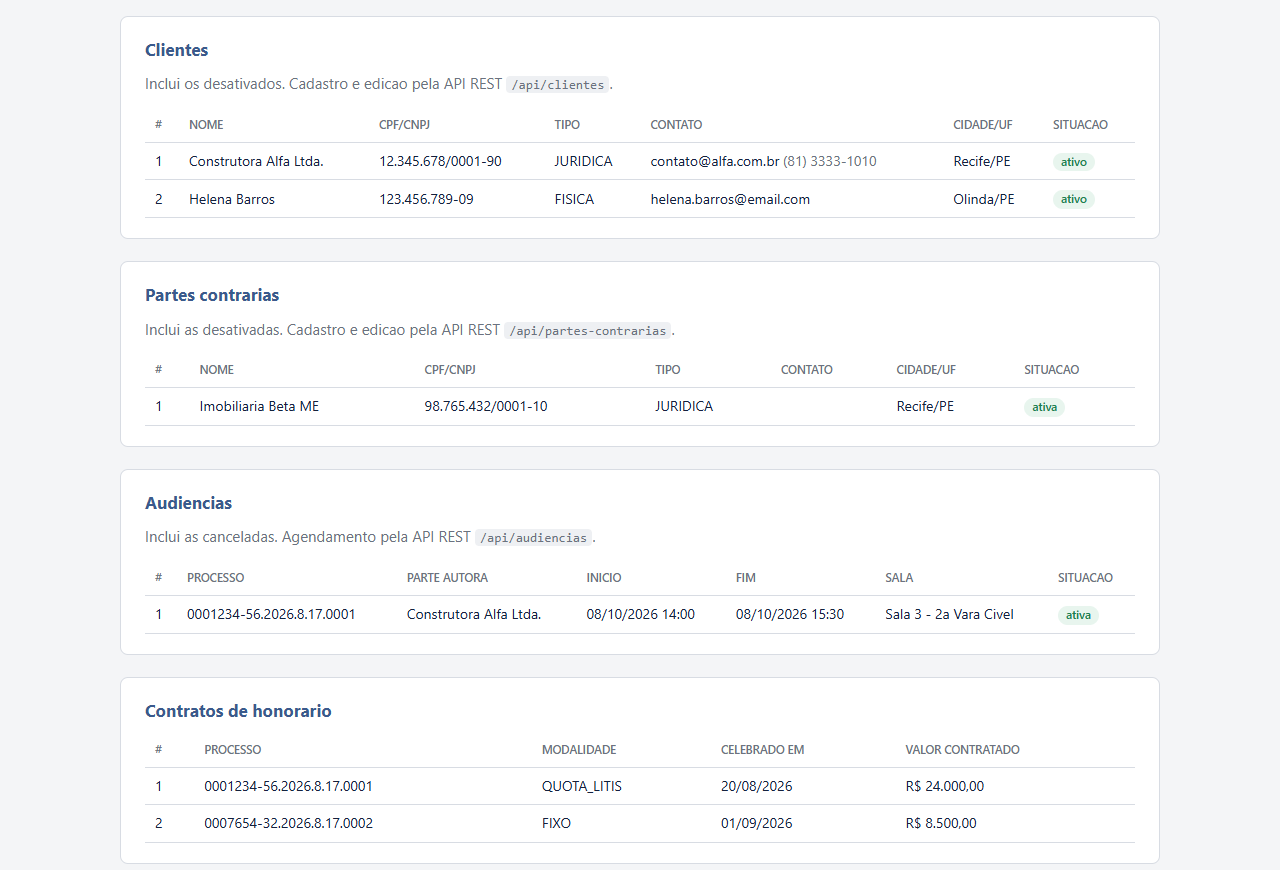
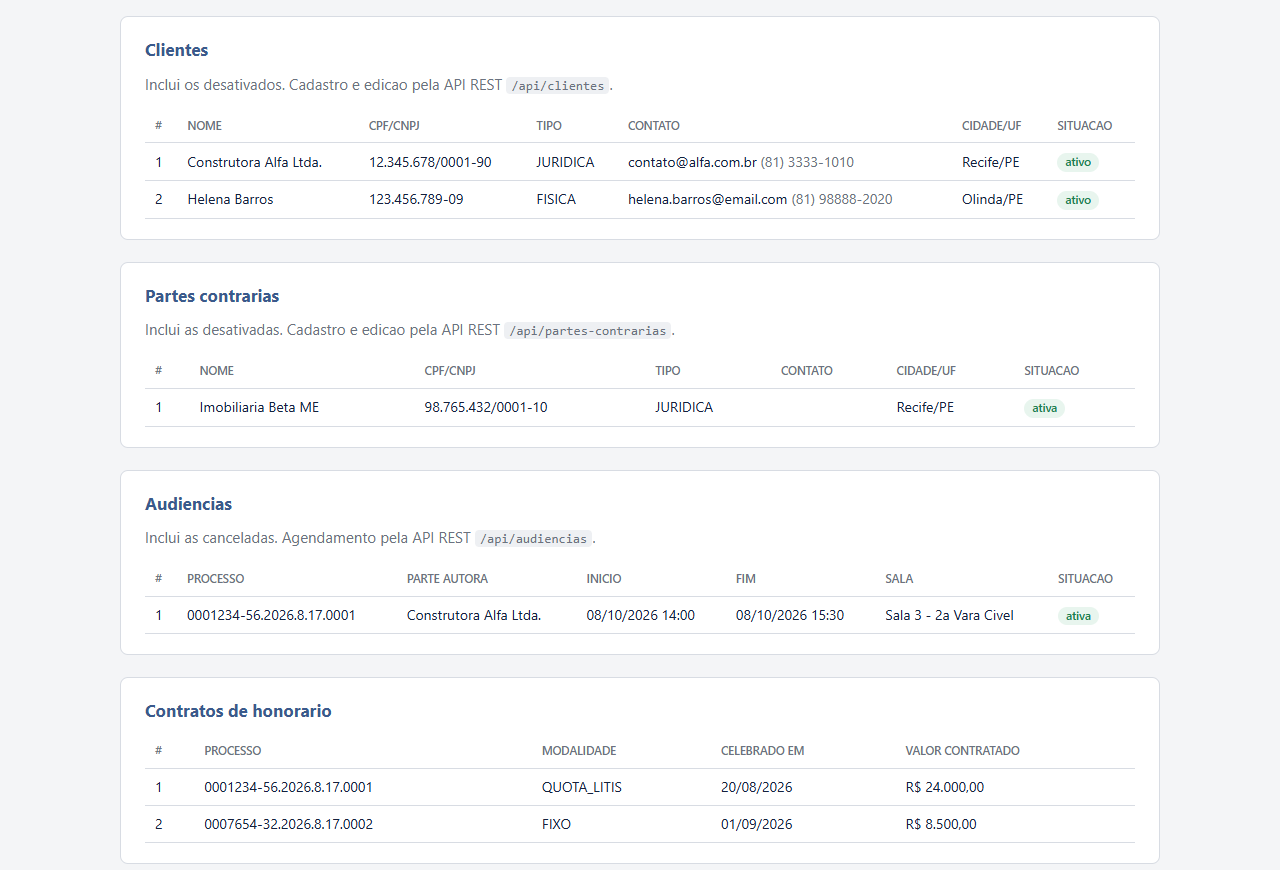
docs: recapturar as telas e registrar as decisoes de front no README
As capturas mostram o painel com o entorno do escritorio ja cadastrado
(clientes, audiencia, contratos, anexo) e o prazo cumprido na
administracao.

O README ganha a secao "O front: sem framework, mas com o basico
inegociavel", com o que foi feito de acessibilidade, tema escuro,
impressao e cache, e atualiza a contagem de testes para 171.

diff --git a/README.md b/README.md
@@ -30,13 +30,13 @@ Em volta disso ficam os apoios que o dia a dia exige: cadastro de processos com 
 Dois comandos, sem instalar banco nem configurar nada:
 
 ```bash
-./mvnw test            # 168 testes: unidade + contrato HTTP + 53 cenários BDD (481 steps)
+./mvnw test            # 171 testes: unidade + contrato HTTP + 53 cenários BDD (481 steps)
 ./mvnw spring-boot:run # sobe em http://localhost:8080
 ```
 
 Abra <http://localhost:8080/painel>. Ele pede login, porque todo o painel é autenticado.
 
-A aplicação já sobe com um escritório de mentira montado: dois processos (um deles em segredo de justiça), três prazos em estados diferentes, dois modelos de peça e o calendário de feriados nacionais. É o suficiente para percorrer o sistema inteiro sem cadastrar nada.
+A aplicação já sobe com um escritório de mentira montado: dois processos (um deles em segredo de justiça), quatro prazos em estados diferentes (inclusive um vencido e um já cumprido), uma peça esperando revisão, dois clientes, uma parte contrária, uma audiência marcada, dois contratos de honorário, um anexo nos autos, dois modelos de peça e o calendário de feriados nacionais. É o suficiente para percorrer o sistema inteiro sem cadastrar nada.
 
 **Com quem entrar:**
 
@@ -350,6 +350,21 @@ Os 6 padrões da lista do enunciado, mais Composite e Interpreter. Cada um entro
 | **Proxy** | `ProxyDeAcesso` sobre `ConteudoRestrito`, especializado em `DocumentoProxy` e `ArquivoProxy` | Segredo de justiça conferido antes de o conteúdo sair da persistência; impossível esquecer a checagem, porque o caso de uso só tem acesso ao Proxy. A regra do art. 189 é escrita uma vez e vale para peça gerada e arquivo anexado |
 | **Iterator** | `Processo implements Iterable<Andamento>` | Linha do tempo em ordem cronológica sem expor a coleção interna |
 
+### O front: sem framework, mas com o básico inegociável
+
+Uma folha de estilo (`/css/praxis.css`), um arquivo de comportamento (`/js/praxis.js`) e Thymeleaf. Não há build de front, e as decisões abaixo existem para que isso não custe acessibilidade nem desempenho.
+
+- **Atalho de teclado** em toda tela: o primeiro `Tab` revela "Ir para o conteudo" e pula o menu inteiro (WCAG 2.4.1). O link do menu correspondente à tela atual leva `aria-current="page"`, então o leitor de tela anuncia onde você está — antes era só uma cor diferente.
+- **Tema claro e escuro** pela preferência do sistema (`prefers-color-scheme`). Toda cor virou token em `:root`; o tema escuro redefine os tokens e quase nenhuma regra precisa saber que ele existe.
+- **Movimento é preferência do usuário**: com `prefers-reduced-motion`, a rolagem suave e as transições são desligadas (WCAG 2.3.3).
+- **Folha de impressão**: peça, ficha e agenda vão ao papel sem menu, sem formulário e sem botão; o cabeçalho da tabela repete a cada página e links externos imprimem o endereço. Peça aprovada é levada impressa para a audiência — essa é a tela que mais vai para a impressora.
+- **Cabeçalho fixo** com `scroll-margin-top` nos alvos de âncora, para o foco nunca ficar escondido atrás dele (WCAG 2.4.11); em tela estreita o cabeçalho volta a rolar, porque ali o menu ocupa três linhas. Nas tabelas longas da administração, o cabeçalho de coluna acompanha a rolagem.
+- **Alvo de toque** de no mínimo 24 px nos botões de tabela (WCAG 2.5.8), e caixas de seleção maiores.
+- **Feedback de envio**: ao submeter, o botão vira "Enviando..." com `aria-busy` e trava contra duplo clique; voltar pelo histórico o destrava.
+- **Desempenho**: HTML, CSS, JS e JSON saem comprimidos; CSS e JS levam o hash do conteúdo na URL (`/css/praxis-<hash>.css`) e são cacheados por um ano — publicar versão nova troca a URL e invalida sozinho.
+
+`FrontHttpTest` cobre o que é invisível a olho nu: o atalho existe em todas as telas do painel, o menu marca a página atual e os estáticos saem com cache longo.
+
 ### Segurança do painel
 
 - Login próprio por sessão HTTP (sem Spring Security). A sessão guarda só uma projeção do usuário (nome, OAB, papel) — nunca a senha.
@@ -365,7 +380,7 @@ Os 6 padrões da lista do enunciado, mais Composite e Interpreter. Cada um entro
 ```
 53 scenarios (53 passed)
 481 steps (481 passed)
-Tests run: 168, Failures: 0, Errors: 0
+Tests run: 171, Failures: 0, Errors: 0
 ```
 
 Os cenários são escritos em português, em [`src/test/resources/features`](src/test/resources/features), e automatizados com Cucumber + Spring (`src/test/java/school/cesar/praxis/bdd`). Os steps exercitam os casos de uso reais contra o banco, não dublês.

diff --git a/docs/prototipos/README.md b/docs/prototipos/README.md
@@ -34,6 +34,6 @@ Capturas da interface real (Chrome headless, 1280 px), logado como chefe (`admin
 
 Detalhes do script:
 
-- Cliente, parte contrária, audiência, contrato de honorário e anexo **não entram na carga de exemplo**: `semear()` os cria pela API REST, usando a sessão e o token CSRF do próprio navegador, para as tabelas da administração não aparecerem vazias.
+- Todos os cadastros que aparecem nas capturas vêm da carga de exemplo (`DadosDeExemplo`), inclusive clientes, parte contrária, audiência, contratos de honorário e o anexo — o script não semeia mais nada pela API.
 - As quatro capturas da administração são recortes por seção da mesma página (`/painel/admin`), longa demais para uma imagem só.
 - As capturas que **alteram estado** (varredura, aprovação da peça, criação de usuário) ficam no fim do roteiro, para não contaminar as anteriores.
